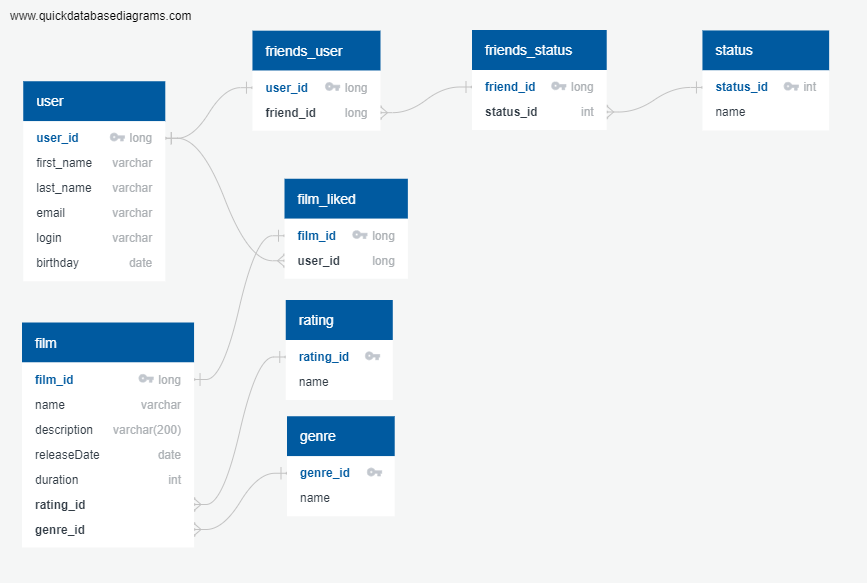
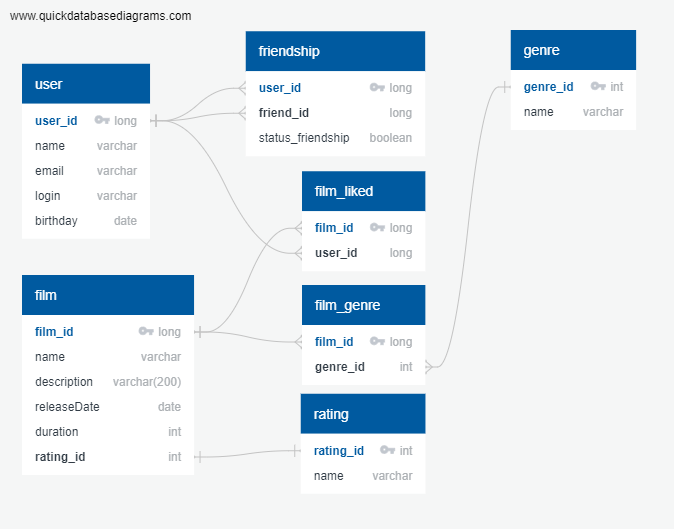
вывод картинки в ридми7

diff --git a/README.md b/README.md
@@ -24,7 +24,7 @@ FROM film;
 ```
 3. получение *"N"* популярных фильмов
 ``` java
-SELECT *, f.name as movie,
+SELECT *, f.name as movie, //* остальные поля из таблицы film
 r.rating_id as film_rating
 FROM film as f
 LEFT JOIN genre AS g on f.genre_id = g.genre_id
@@ -36,21 +36,11 @@ LIMIT "количество фильмов в списке";
 4. выдать общих друзей
 ``` java
 SELECT u.name
-FROM friends_user."friend_id" AS f1
-JOIN friends_user."friend_id" AS f2 ON f.friend_id = f2.friend_id
+FROM friendship."friend_id" AS f1
+JOIN friendship."friend_id" AS f2 ON f.friend_id = f2.friend_id
 JOIN user AS u ON f.friend_id = u.user_id
 GROUP BY u.name;
 ```
-5. выдать статус подтверждения дружбы
-``` java
-SELECT u.name,
-f.friens_user,
-s.name
-FROM user as u
-LEFT JOIN friends_user AS fu ON u.user_id = fu.user_id
-LEFT JOIN friends_status as fs ON fu.friend_id = fs.friend_id
-LEFT JOIN status as s ON fs.status_id = s.status_id
-GROUP BY u.name;
-```
+
 
 <img alt="Связи базы данных" src="QuickDBD-filmogram Diagram.png" title="Диаграмма"/>
